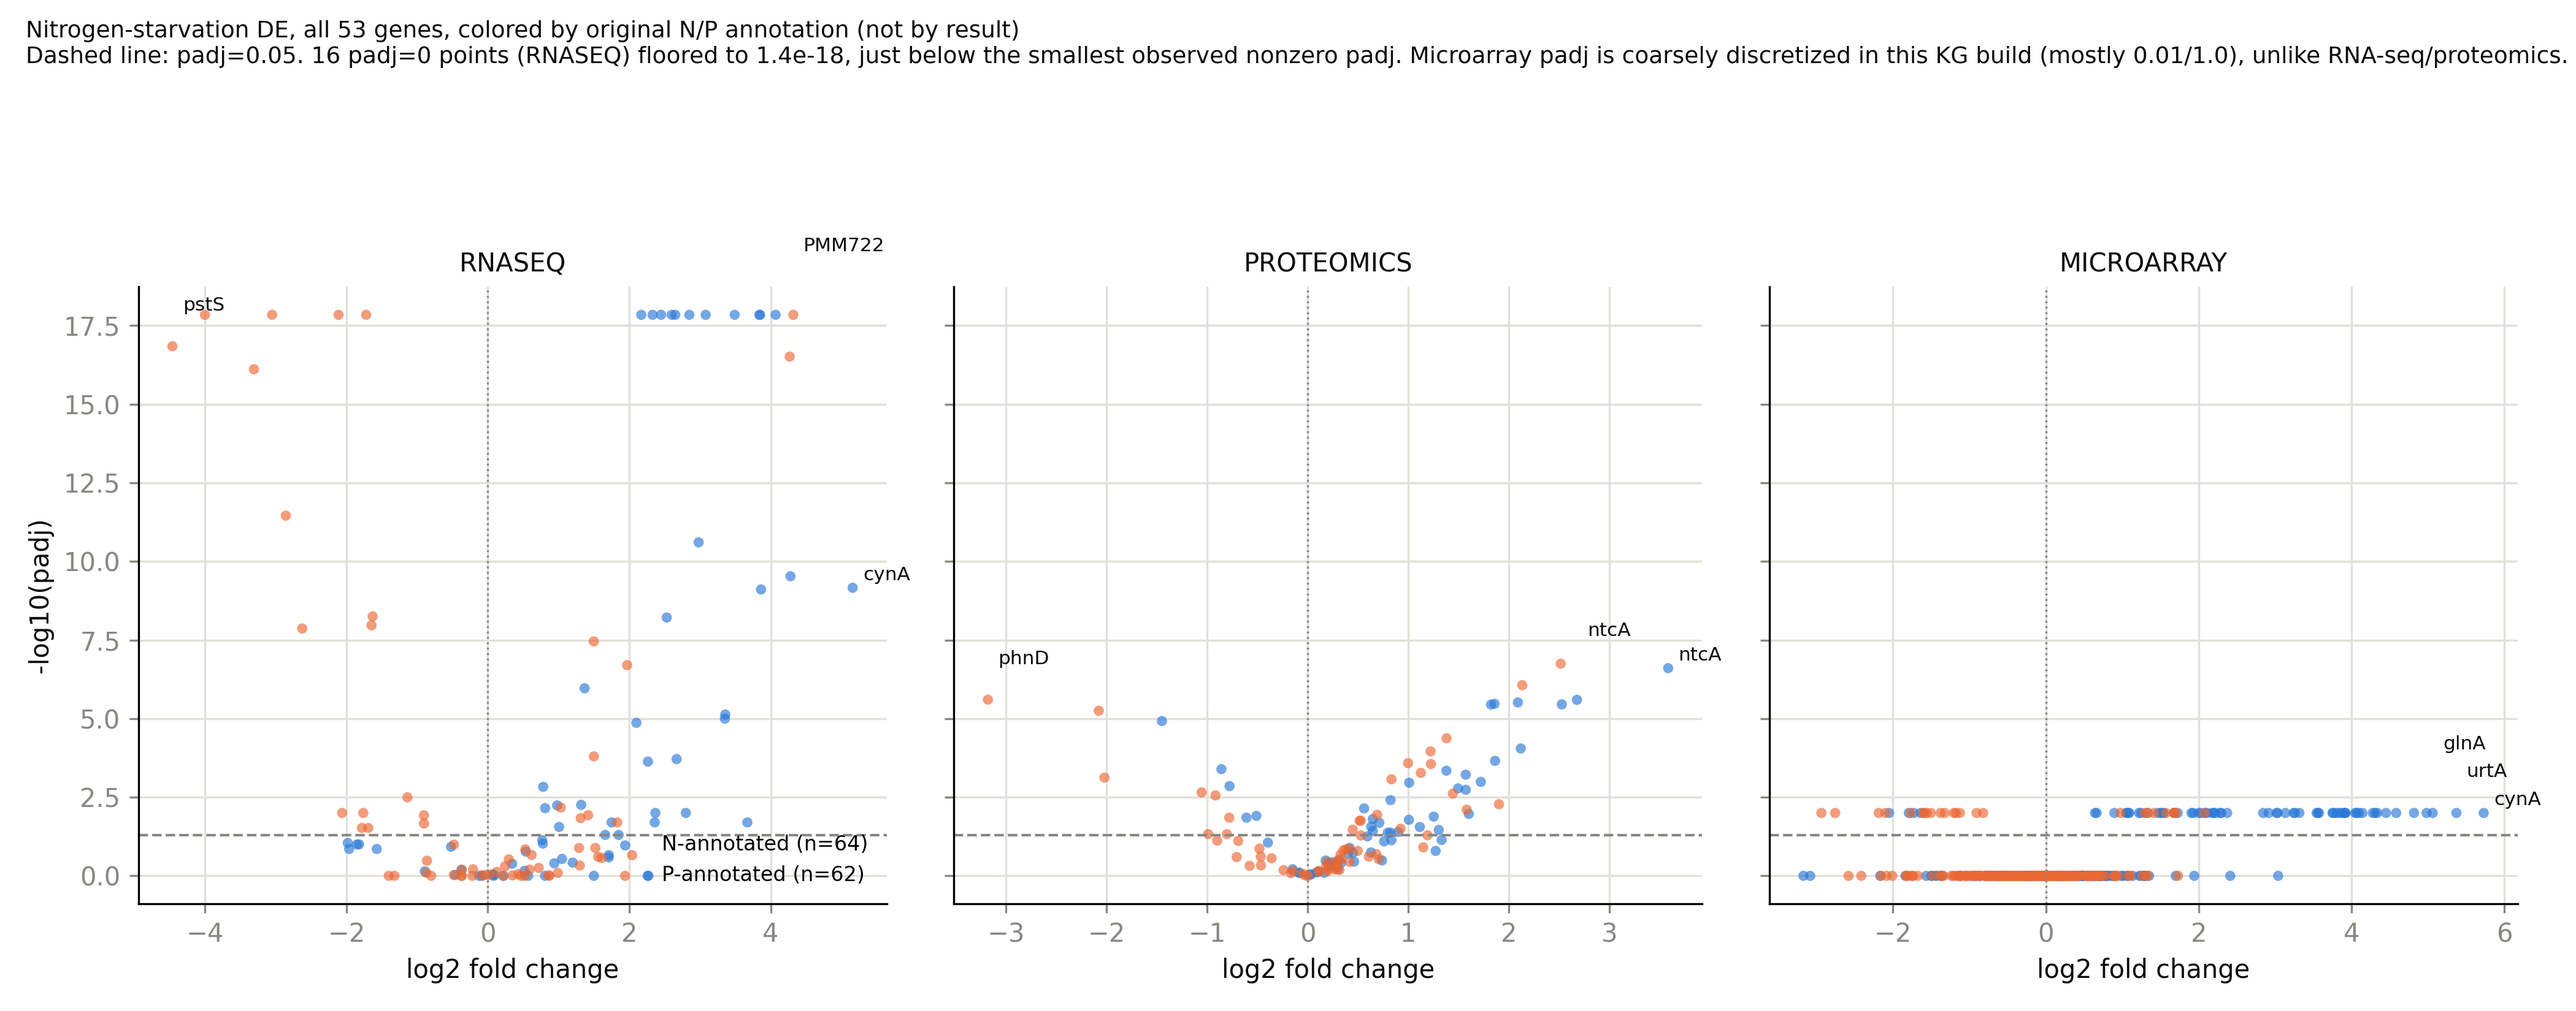
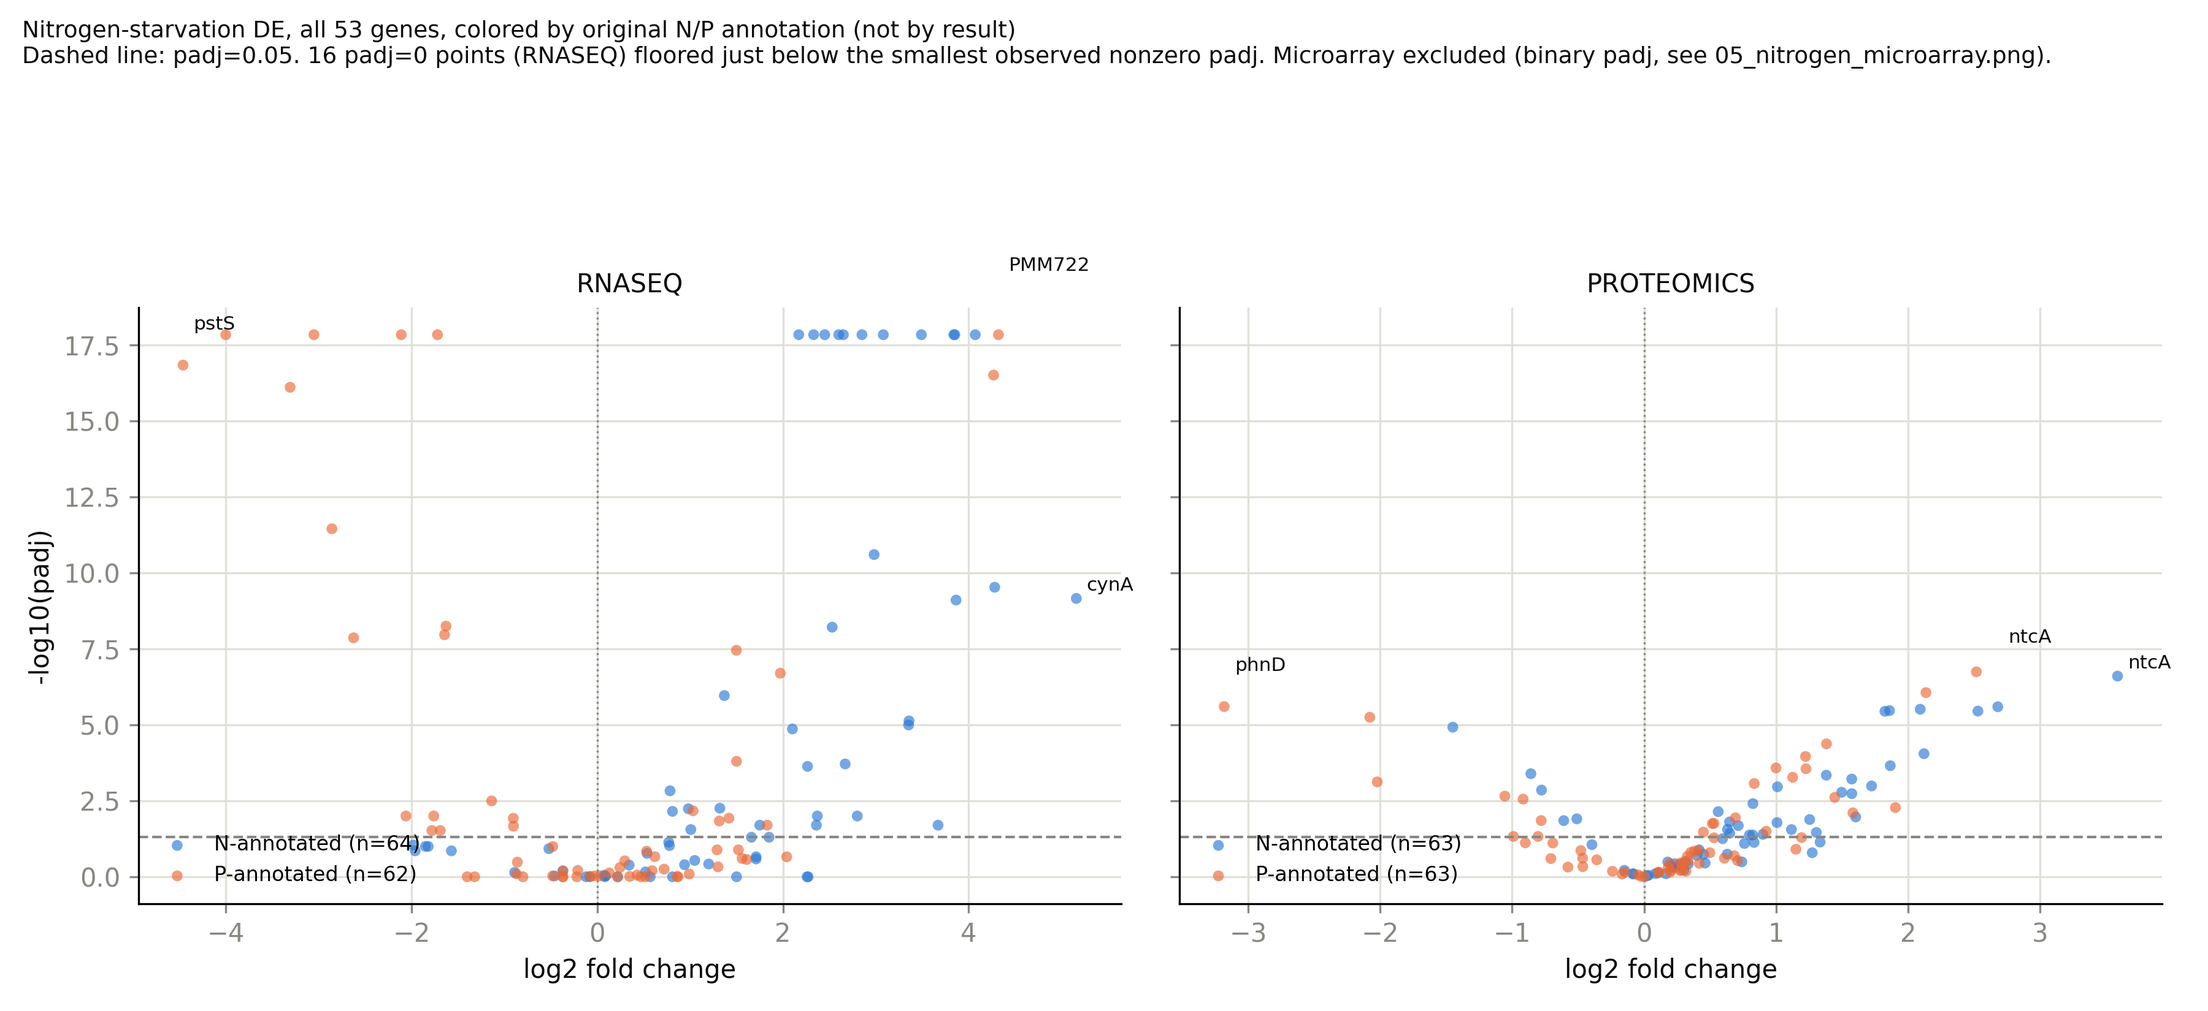
Split nitrogen figure by data type: volcano (RNASEQ/PROTEOMICS) vs strip plot (MICROARRAY)
Researcher asked why the microarray panel of the volcano plot looked
like two flat bands. Root cause: this KG build's microarray padj is
effectively binary (90 rows at exactly 0.01, 456 at exactly 1.0,
nothing between), not a continuous statistic -- a volcano y-axis
implies confidence gradation that data doesn't have.

04_nitrogen_volcano.png now shows only RNASEQ/PROTEOMICS (continuous
padj, each panel with its own N/P legend). New 05_nitrogen_microarray.png
uses a strip plot instead: log2FC on x, "Significant"/"Not significant"
as the two real y-categories, colored by N/P annotation, with a legend
-- honest about what binary microarray data actually supports.

Also documents, per researcher's question, that all 51 genes plotted
across these figures are confirmed members of the original 54-gene
list (nothing extraneous), and the 3 missing genes' specific reasons
(ptxB/phnD2, nadB2, ptrA -- each traced to a strain with no nitrogen
experiments in this KG build).

diff --git a/analyses/2026-08-02-np_gene_expression_full_analysis/5_analyze/scripts/07_plot_nitrogen_volcano.py b/analyses/2026-08-02-np_gene_expression_full_analysis/5_analyze/scripts/07_plot_nitrogen_volcano.py
@@ -1,9 +1,15 @@
 """Volcano plot: all 53 usable genes from the original 54-gene N/P list,
-differential expression under nitrogen starvation only, faceted by
-platform (RNASEQ/PROTEOMICS/MICROARRAY -- padj granularity differs
-sharply by platform, see caveat below), colored by each gene's
-*original* researcher-assigned N/P annotation (not by what this
+differential expression under nitrogen starvation only, colored by each
+gene's *original* researcher-assigned N/P annotation (not by what this
 analysis found -- the color is the source-spreadsheet label).
+
+Only RNASEQ and PROTEOMICS are shown here -- both report a continuous,
+finely-graded padj, which is what a volcano plot's y-axis needs to be
+meaningful. MICROARRAY padj in this KG build is coarsely binary
+(effectively just 0.01 or 1.0 -- see 5_analyze/notebook.md), so a
+volcano-style continuous y-axis would misrepresent it as having
+confidence gradation it doesn't have; MICROARRAY gets its own,
+differently-shaped figure instead (08_plot_nitrogen_microarray.py).
 
 x = log2FC (treatment vs control), y = -log10(padj). padj=0 rows
 (floating-point underflow in the source study, 16 rows, all RNASEQ)
@@ -14,14 +20,8 @@ would have placed them *below* several genuinely-observed p-values).
 The top 3 points per panel by |log2FC| among significant (padj<0.05)
 genes are labeled with their source gene name -- chosen over "top by
 -log10(padj)" because many points tie at the padj floor, making that
-selection arbitrary; |log2FC| ranking is unambiguous.
-
-Caveat surfaced directly in the figure: MICROARRAY padj values in this
-KG build are coarsely discretized (predominantly 0.01 or 1.0 -- see
-5_analyze/notebook.md) rather than continuous, so the microarray panel
-reads as two horizontal bands rather than a smooth cloud; RNASEQ and
-PROTEOMICS have fine-grained padj and look like conventional volcano
-plots.
+selection arbitrary; |log2FC| ranking is unambiguous. Each panel has
+its own N/P legend.
 
 Input:  data/06_nitrogen_volcano_data.csv
 Output: figures/04_nitrogen_volcano.png
@@ -44,24 +44,25 @@ P_COLOR = "#eb6834"   # orange -- categorical slot 8
 INK = "#0b0b0b"
 MUTED = "#898781"
 GRID = "#e1e0d9"
-PLATFORM_ORDER = ["RNASEQ", "PROTEOMICS", "MICROARRAY"]
+PLATFORM_ORDER = ["RNASEQ", "PROTEOMICS"]
 
 
 def main() -> None:
     df = pd.read_csv(DATA_DIR / "06_nitrogen_volcano_data.csv")
+    df = df[df["omics_type"].isin(PLATFORM_ORDER)]
     n_zero = int((df["padj"] == 0).sum())
     padj_floor = df.loc[df["padj"] > 0, "padj"].min() / 10
     df["padj_floored"] = df["padj"].clip(lower=padj_floor)
     df["neg_log10_padj"] = -np.log10(df["padj_floored"])
 
-    fig, axes = plt.subplots(1, 3, figsize=(14, 5.5), dpi=300, sharey=True)
+    fig, axes = plt.subplots(1, 2, figsize=(12, 5.5), dpi=300, sharey=True)
 
     for ax, platform in zip(axes, PLATFORM_ORDER):
         sub = df[df["omics_type"] == platform]
         for label, color in [("N", N_COLOR), ("P", P_COLOR)]:
             g = sub[sub["n_or_p"] == label]
             ax.scatter(
-                g["log2fc"], g["neg_log10_padj"], s=16, alpha=0.65,
+                g["log2fc"], g["neg_log10_padj"], s=18, alpha=0.65,
                 color=color, edgecolors="none", label=f"{label}-annotated (n={len(g)})",
             )
 
@@ -83,18 +84,17 @@ def main() -> None:
         ax.grid(color=GRID, linewidth=0.8, zorder=0)
         ax.set_axisbelow(True)
         ax.tick_params(colors=MUTED)
+        ax.legend(loc="lower left", frameon=False, fontsize=8, title="")
 
     axes[0].set_ylabel("-log10(padj)", color=INK)
-    axes[0].legend(loc="lower right", frameon=False, fontsize=8)
 
     fig.suptitle(
         "Nitrogen-starvation DE, all 53 genes, colored by original N/P annotation (not by result)\n"
-        f"Dashed line: padj=0.05. {n_zero} padj=0 points (RNASEQ) floored to {padj_floor:.1e}, just below "
-        "the smallest observed nonzero padj. Microarray padj is coarsely discretized in this KG build "
-        "(mostly 0.01/1.0), unlike RNA-seq/proteomics.",
+        f"Dashed line: padj=0.05. {n_zero} padj=0 points (RNASEQ) floored just below the smallest "
+        "observed nonzero padj. Microarray excluded (binary padj, see 05_nitrogen_microarray.png).",
         fontsize=9, color=INK, x=0.01, y=0.98, ha="left",
     )
-    fig.tight_layout(rect=(0, 0, 1, 0.86))
+    fig.tight_layout(rect=(0, 0, 1, 0.84))
 
     out_path = FIG_DIR / "04_nitrogen_volcano.png"
     fig.savefig(out_path, dpi=300)

diff --git a/analyses/2026-08-02-np_gene_expression_full_analysis/5_analyze/scripts/08_plot_nitrogen_microarray.py b/analyses/2026-08-02-np_gene_expression_full_analysis/5_analyze/scripts/08_plot_nitrogen_microarray.py
@@ -1,0 +1,86 @@
+"""Microarray-specific figure for the same 53-gene x nitrogen-starvation
+data as 07_plot_nitrogen_volcano.py, but a different chart type: a
+volcano plot's y-axis needs a continuous, graded significance measure,
+and this KG build's microarray padj is not that -- it's effectively
+binary (0.01 = "significant" for 90 of 546 rows, 1.0 = "not
+significant" for the other 456; no values in between). Plotting that on
+a continuous -log10(padj) axis produces two flat, uninformative bands
+(see 5_analyze/notebook.md).
+
+Instead: a strip plot, x = log2FC, y = the two real categories the data
+actually distinguishes ("Significant" / "Not significant"), colored by
+each gene's original N/P annotation, points jittered within each row.
+This shows exactly what the microarray data supports -- direction and
+magnitude of fold-change, and a binary significance call -- without
+implying false precision.
+
+Input:  data/06_nitrogen_volcano_data.csv
+Output: figures/05_nitrogen_microarray.png
+
+Usage:
+  uv run python analyses/2026-08-02-np_gene_expression_full_analysis/5_analyze/scripts/08_plot_nitrogen_microarray.py
+"""
+from pathlib import Path
+
+import matplotlib.pyplot as plt
+import numpy as np
+import pandas as pd
+
+STEP_DIR = Path(__file__).resolve().parents[1]
+DATA_DIR = STEP_DIR / "data"
+FIG_DIR = STEP_DIR / "figures"
+
+N_COLOR = "#2a78d6"   # blue -- categorical slot 1, same as volcano plot
+P_COLOR = "#eb6834"   # orange -- categorical slot 8, same as volcano plot
+INK = "#0b0b0b"
+MUTED = "#898781"
+GRID = "#e1e0d9"
+
+ROW_ORDER = ["Not significant", "Significant"]
+RNG = np.random.default_rng(42)
+
+
+def main() -> None:
+    df = pd.read_csv(DATA_DIR / "06_nitrogen_volcano_data.csv")
+    ma = df[df["omics_type"] == "MICROARRAY"].copy()
+    ma["sig_label"] = np.where(ma["padj"] < 0.05, "Significant", "Not significant")
+    ma["y"] = ma["sig_label"].map({"Not significant": 0, "Significant": 1})
+    ma["y_jitter"] = ma["y"] + RNG.uniform(-0.18, 0.18, size=len(ma))
+
+    fig, ax = plt.subplots(figsize=(10, 5), dpi=300)
+
+    for label, color in [("N", N_COLOR), ("P", P_COLOR)]:
+        g = ma[ma["n_or_p"] == label]
+        ax.scatter(
+            g["log2fc"], g["y_jitter"], s=18, alpha=0.6, color=color,
+            edgecolors="none", label=f"{label}-annotated (n={len(g)})",
+        )
+
+    ax.axvline(0, color=MUTED, linewidth=0.8, linestyle=":")
+    ax.set_yticks([0, 1])
+    ax.set_yticklabels(ROW_ORDER, fontsize=10, color=INK)
+    ax.set_ylim(-0.6, 1.6)
+    ax.set_xlabel("log2 fold change", color=INK)
+    for spine in ("top", "right"):
+        ax.spines[spine].set_visible(False)
+    ax.grid(axis="x", color=GRID, linewidth=0.8, zorder=0)
+    ax.set_axisbelow(True)
+    ax.tick_params(colors=MUTED)
+    ax.legend(loc="upper left", frameon=False, fontsize=9)
+
+    n_sig = int((ma["padj"] < 0.05).sum())
+    ax.set_title(
+        "Nitrogen-starvation DE, microarray only, all 53 genes -- "
+        f"{n_sig}/{len(ma)} rows significant\n"
+        "padj is binary in this KG build (0.01 vs 1.0, not continuous) -- shown as two rows, not a volcano y-axis.",
+        fontsize=9.5, color=INK, loc="left",
+    )
+    fig.tight_layout()
+
+    out_path = FIG_DIR / "05_nitrogen_microarray.png"
+    fig.savefig(out_path, dpi=300)
+    print(f"Wrote {out_path}")
+
+
+if __name__ == "__main__":
+    main()

diff --git a/analyses/2026-08-02-np_gene_expression_full_analysis/5_analyze/notebook.md b/analyses/2026-08-02-np_gene_expression_full_analysis/5_analyze/notebook.md
@@ -210,19 +210,36 @@ N/P-acquisition annotation from the researcher's source spreadsheet
   798 rows = 403 (H1_N) + 395 (H2_Pgenes_Nexp), reconciling exactly with
   step 5's earlier totals.
 - `07_plot_nitrogen_volcano.py` → `figures/04_nitrogen_volcano.png` —
-  volcano plot (log2FC vs. -log10 padj), faceted by platform (padj
-  granularity differs sharply: RNASEQ/PROTEOMICS are continuous,
-  MICROARRAY is coarsely discretized to ~0.01/1.0 in this KG build, so
-  pooling platforms would be misleading here too). padj=0 rows (16,
-  all RNASEQ) are floored to one order of magnitude below the smallest
+  volcano plot (log2FC vs. -log10 padj), RNASEQ and PROTEOMICS only
+  (2 panels, each with its own N/P legend). padj=0 rows (16, all
+  RNASEQ) are floored to one order of magnitude below the smallest
   observed nonzero padj (1.4e-18) so they plot as most-significant, not
   tied at an arbitrary constant. Top 3 genes per panel by |log2FC|
   among significant hits are labeled.
+- **MICROARRAY excluded from the volcano plot and given its own figure
+  instead** (researcher's request, after asking why the microarray
+  panel looked like two flat bands rather than a smooth cloud): its
+  padj in this KG build is effectively binary (90 rows at exactly
+  0.01, 456 at exactly 1.0, nothing between — confirmed by checking
+  `value_counts()` directly), so a continuous -log10(padj) y-axis would
+  imply a confidence gradient the data doesn't have.
+  `08_plot_nitrogen_microarray.py` → `figures/05_nitrogen_microarray.png`
+  — a strip plot instead: x = log2FC, y = the two real categories
+  ("Significant" / "Not significant"), colored by N/P annotation,
+  jittered within each row, with a legend. Honest about what the data
+  actually supports (direction, magnitude, and a binary call) without
+  fabricating precision.
 
-**Results:** the RNASEQ and PROTEOMICS panels visibly show blue
+**Results:** the RNASEQ and PROTEOMICS volcano panels visibly show blue
 (N-annotated) points concentrated in the upper-right (significant,
 upregulated) — the same pattern established quantitatively in step 6,
-now visible gene-by-gene. Three P-annotated genes stand out as notable
+now visible gene-by-gene. The microarray strip plot shows the same
+qualitative pattern despite its coarser data: among the 90 significant
+rows, blue (N-annotated) points dominate the positive-log2FC side while
+orange (P-annotated) points are more spread across both sides,
+including a visible negative cluster blue genes don't share.
+
+Three P-annotated genes stand out as notable
 exceptions worth flagging individually (not washed out by the
 aggregate H2 "no effect" result, which describes the P-gene set on
 average, not every gene in it):
@@ -246,7 +263,15 @@ a set that shows no *average* effect is expected, not contradictory.
 H2_Pgenes_Nexp (395) from `01_hit_rate_summary.csv`; spot-checked that
 `cynA`/`glnA`/`ntcA` plot as N-annotated (blue) and `pstS`/`phnD`/
 `PMM722` as P-annotated (orange) against `2_kg_selection/data/03_gene_loci.csv`'s
-`n_or_p` column, confirming the color-mapping code isn't reversed.
+`n_or_p` column, confirming the color-mapping code isn't reversed;
+verified (researcher asked) that every gene plotted is one of the
+original 54 and nothing extraneous (e.g. background/positive-control
+genes) leaked in. **3 of the 54 genes are absent from this figure**,
+each for a confirmed reason: `ptxB/phnD2` (only evidence was in the
+excluded MIT9301), `nadB2` (only locus is in MIT9312, which has zero
+nitrogen experiments), `ptrA` (only locus is in NATL2A, which also has
+zero nitrogen experiments) — both `nadB2` and `ptrA` do appear on the
+phosphorus side, just not here.
 
 ## Decide-gate checklist
 
@@ -262,7 +287,10 @@ H2_Pgenes_Nexp (395) from `01_hit_rate_summary.csv`; spot-checked that
   → `figures/03_log2fc_by_platform.png`. Addendum 2:
   `scripts/06_pull_nitrogen_volcano_data.py` → `data/06_nitrogen_volcano_data.csv`
   (798 rows); `scripts/07_plot_nitrogen_volcano.py` →
-  `figures/04_nitrogen_volcano.png`.
+  `figures/04_nitrogen_volcano.png` (RNASEQ/PROTEOMICS);
+  `scripts/08_plot_nitrogen_microarray.py` →
+  `figures/05_nitrogen_microarray.png` (MICROARRAY, different chart
+  type per the binary-padj caveat).
 - **Results presented** — group summary table and per-gene highlights
   shown inline above, matching what was shown to the researcher in chat;
   figure included.

diff --git a/analyses/2026-08-02-np_gene_expression_full_analysis/paper.md b/analyses/2026-08-02-np_gene_expression_full_analysis/paper.md
@@ -121,12 +121,18 @@ artifacts by the prior triage analysis. Figures:
 `5_analyze/figures/02_log2fc_distribution.png`,
 `03_log2fc_by_platform.png`.
 
-**Gene-level view (volcano plot).** All 53 usable genes' response to
-nitrogen starvation, colored by each gene's original N/P annotation
-and faceted by platform:
-`5_analyze/figures/04_nitrogen_volcano.png`. Confirms the aggregate
-pattern gene-by-gene (N-annotated genes cluster upper-right: significant
-and upregulated) and surfaces 3 notable P-annotated exceptions —
+**Gene-level view.** All 53 usable genes' response to nitrogen
+starvation, colored by each gene's original N/P annotation. RNA-seq
+and proteomics (continuous padj) get a conventional volcano plot:
+`5_analyze/figures/04_nitrogen_volcano.png`. Microarray padj in this
+KG build is effectively binary (90 rows at exactly padj=0.01, 456 at
+exactly padj=1.0) rather than continuous, so a volcano-style y-axis
+would imply confidence gradation the data doesn't have — it gets a
+different chart instead, a strip plot by significance category:
+`5_analyze/figures/05_nitrogen_microarray.png`. All three confirm the
+aggregate pattern gene-by-gene (N-annotated genes cluster toward
+significant-and-upregulated) and surface 3 notable P-annotated
+exceptions —
 `pstS` is strongly down in MED4 across all 3 platforms but strongly
 *up* in MIT9313 (a strain-specific divergence); `phnD` is consistently
 down in MED4; `PMM722` is strongly up in MED4. `[interpretation]`:
